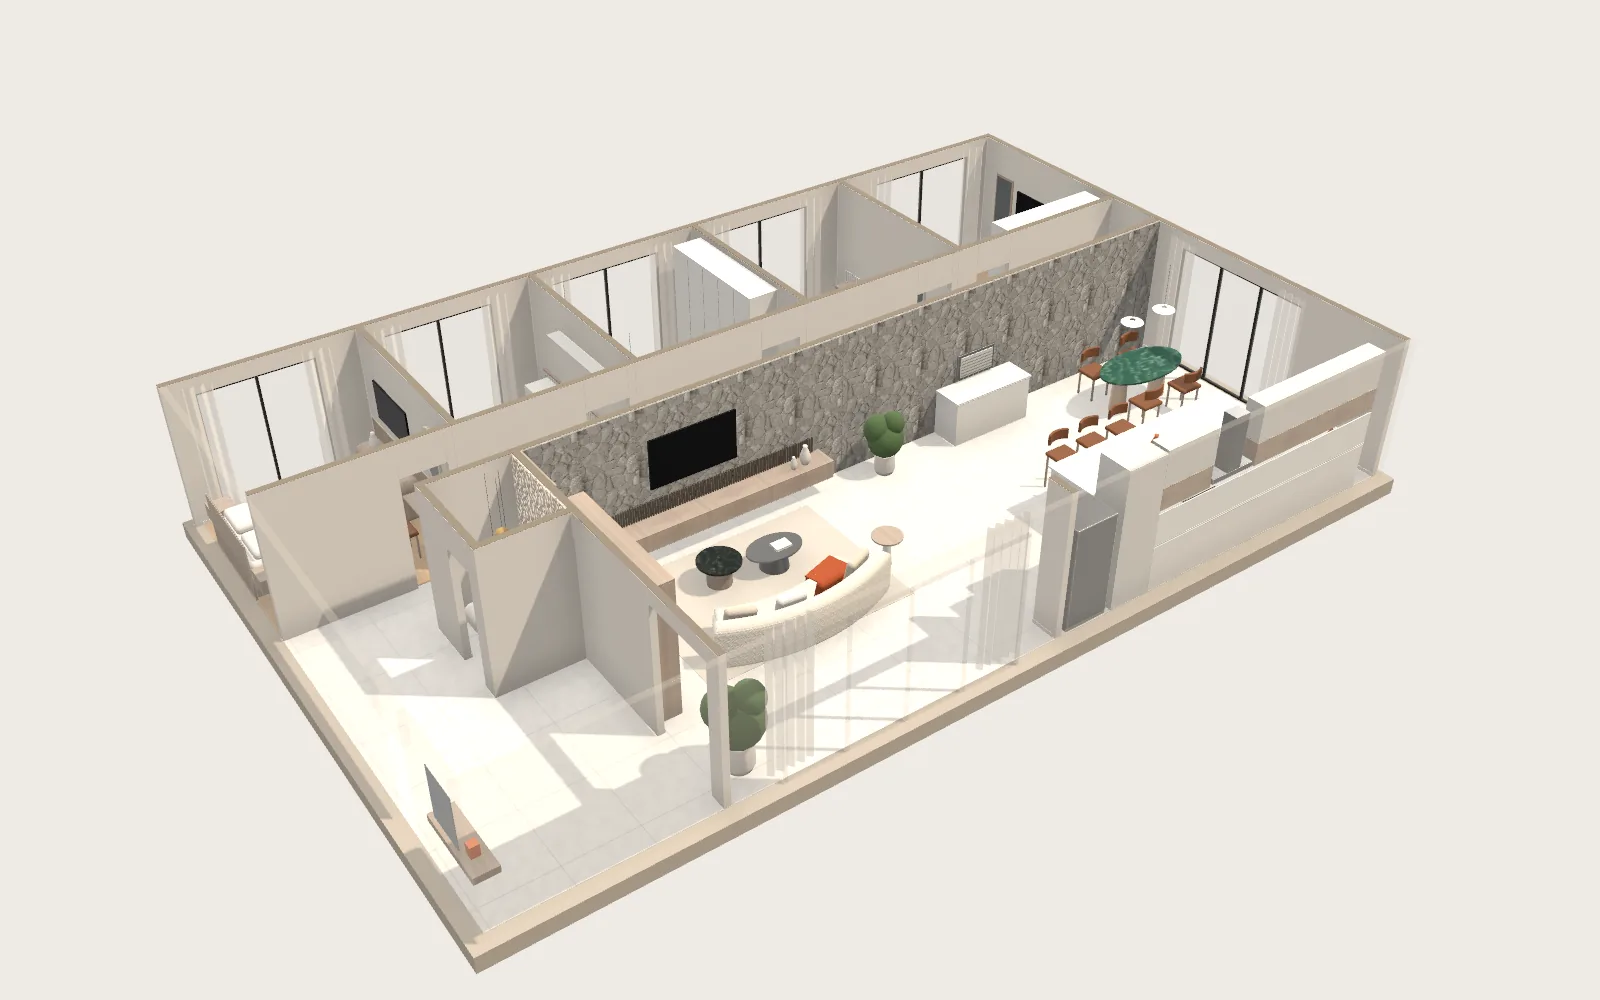
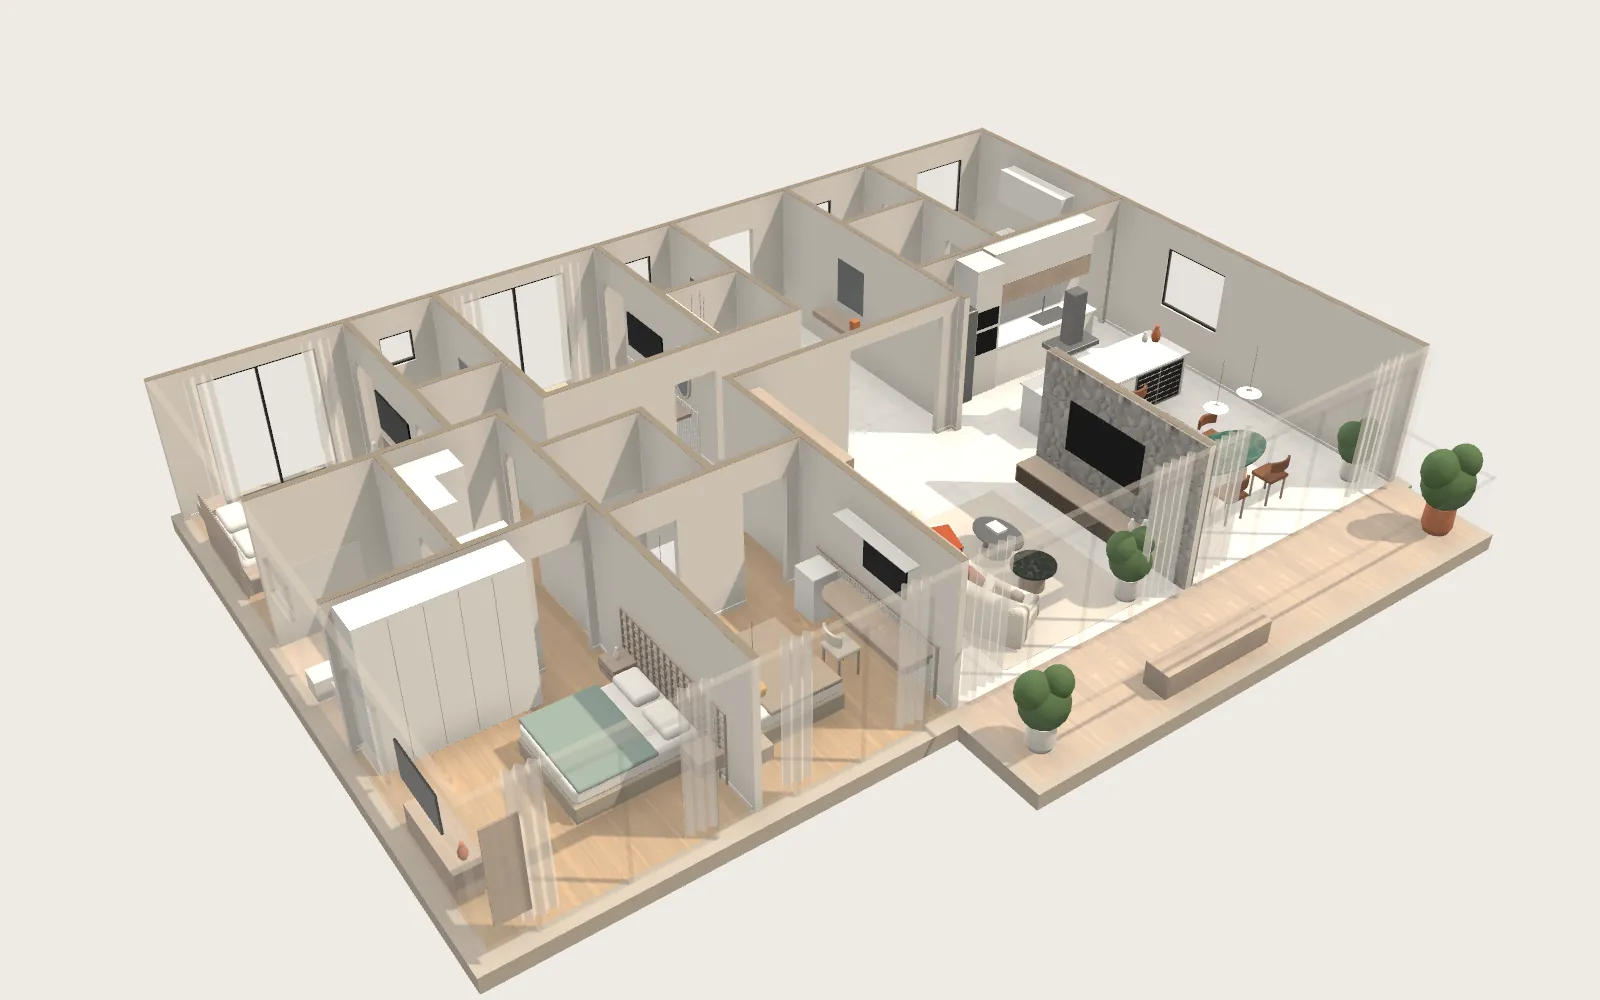
chore: vista de planta na página de verificação e nova imagem estática da maquete

diff --git a/src/app/dev/maquete/MaqueteScene.tsx b/src/app/dev/maquete/MaqueteScene.tsx
@@ -14,7 +14,7 @@ import type { Lighting } from '@/three/apartment/materials'
  * Cena de verificação da maquete (só desenvolvimento). As luzes daqui são PROVISÓRIAS:
  * a iluminação definitiva (manhã/noite, N8AO) é da Task 10.
  *
- * Parâmetros: ?view=overview|living|<RoomId>  ?luz=manha|noite  ?ao=0
+ * Parâmetros: ?view=overview|plano|<RoomId>  ?luz=manha|noite  ?ao=0
  */
 
 type Params = { view: string; luz: Lighting; ao: boolean }
@@ -29,6 +29,10 @@ function readParams(): Params {
 }
 
 function cameraFor(view: string): { pos: [number, number, number]; target: [number, number, number] } {
+  if (view === 'plano') {
+    // planta vista de cima (verificação da disposição)
+    return { pos: [0, 30, 0.01], target: [0, 0, 0] }
+  }
   const room = APARTMENT.rooms.find((r) => r.id === view)
   if (!room) {
     // visão geral: r 27, phi .95 (mesmos números da Task 10)
@@ -42,7 +46,7 @@ function cameraFor(view: string): { pos: [number, number, number]; target: [numb
   const dim = Math.max(room.rect.x1 - room.rect.x0, room.rect.z1 - room.rect.z0)
   const r = Math.max(8, dim * 1.9)
   const phi = 0.68
-  // quartos (fileira sul) vistos do sul; área social vista do norte — pela parede externa que some
+  // cômodos da metade sul vistos do sul; os da metade norte, do norte — pela parede externa que some
   const dir = cz > 0 ? 1 : -1
   return {
     pos: [cx + r * Math.sin(phi) * 0.42, r * Math.cos(phi), cz + dir * r * Math.sin(phi) * 0.91],
